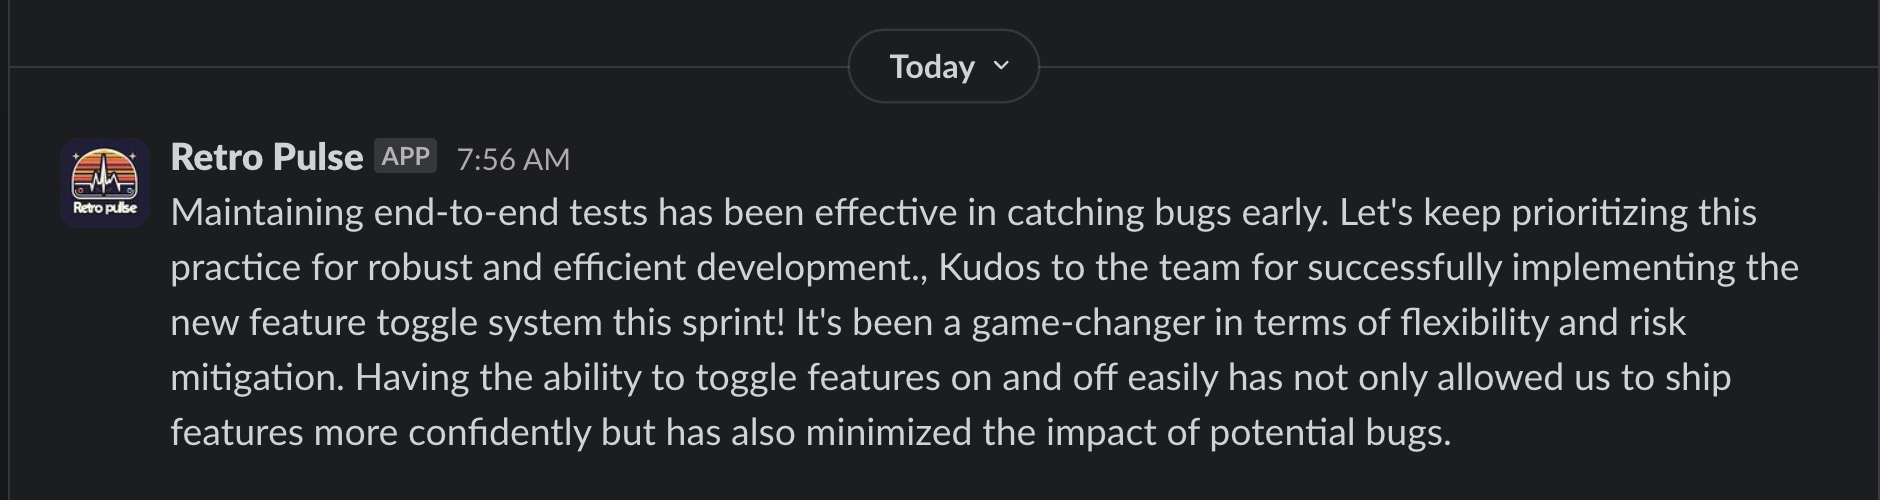
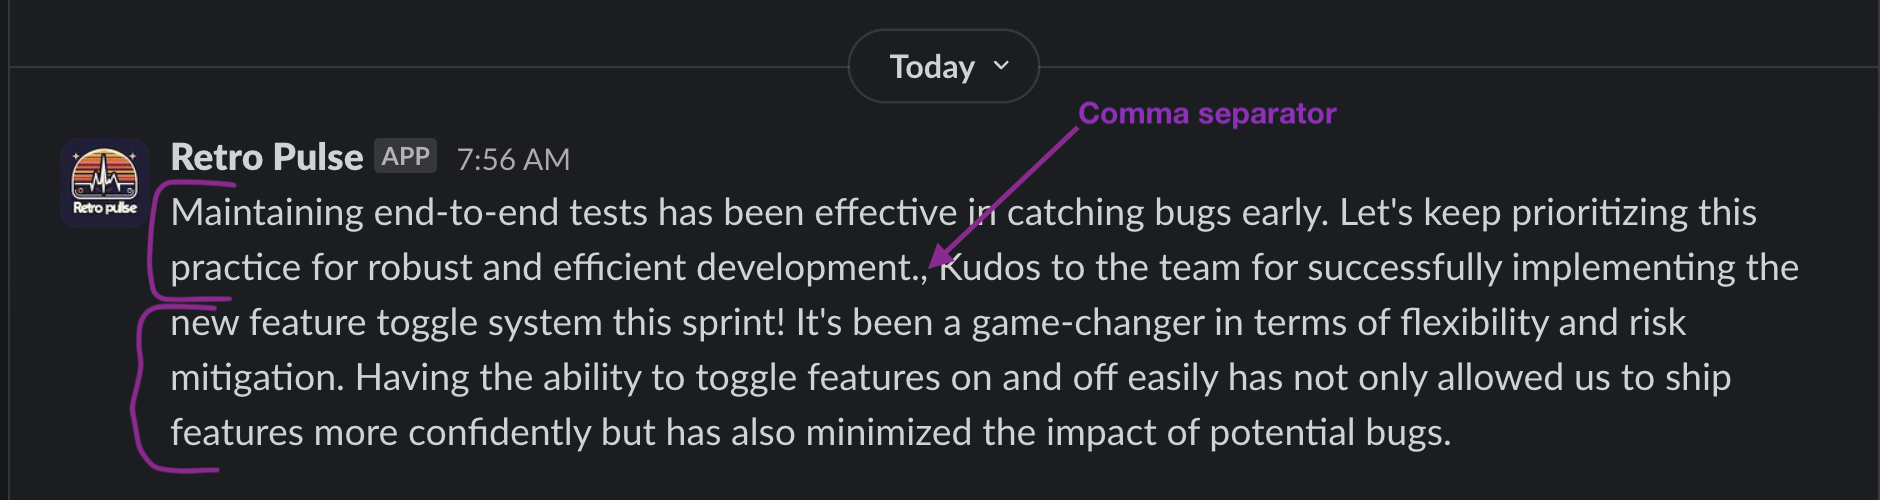
update publish date, related posts, edits on part 5

diff --git a/src/markdown/rails-slack-app-part5-slash-block-kit-response.md b/src/markdown/rails-slack-app-part5-slash-block-kit-response.md
@@ -1,13 +1,13 @@
 ---
 title: "Build a Rails App with Slack Part 5: Slash Command With Block Kit Response"
 featuredImage: "../images/slack-feat-img-part2-john-towner-p-rN-n6Miag-unsplash.jpg"
-description: "Learn how to build a Slack application with Rails in this comprehensive multi-part series. Part 4 covers handling a modal submission action, saving the feedback to the database, and replying to the user with a private DM confirming their submission."
-date: "2024-06-05"
+description: "Learn how to build a Slack application with Rails in this comprehensive multi-part series. Part 4 covers receiving a slash command and responding with a visually appealing block kit UI response."
+date: "2024-07-05"
 category: "rails"
 related:
-  - "Rails Enums with MySQL or Postgres"
-  - "Understanding ActiveRecord Dependent Options"
-  - "Add Rubocop to an Existing Rails Project"
+  - "Testing Faraday with RSpec"
+  - "A Tale of Rails, ChatGPT, and Scopes"
+  - "Rails Feature Test Solved by Regex"
 ---
 
 Welcome to the fifth installment of this multi-part series on building a Slack application with Rails. This series will guide you through the process of creating a Slack application with Rails and is structured as follows:
@@ -122,7 +122,7 @@ SlackRubyBotServer::Events.configure do |config|
 end
 ```
 
-The `Comment` model was introduced in Part 4 of this series, [have a quick read there](../rails-slack-app-part4-action-modal-submission#comment-model) if you need a refresher of what it looks like.
+The `Comment` model was introduced in Part 4 of this series, [have a quick read there](../rails-slack-app-part4-action-modal-submission#comment-model) if you need a refresher of what it looks like. The `Retrospective` model was introduced in [Part 2](../rails-slack-app-part2-slash-command-with-text-response#implement-slash-command).
 
 Use `require_relative` to load this new command in the `bot/slash_commands.rb` file. We [created this file in Part 2](../rails-slack-app-part2-slash-command-with-text-response#receive-slash-command-in-rails) when introducing slash commands:
 
@@ -141,11 +141,11 @@ require_relative "slash_commands/retro_discuss"
 
 This file is loaded by `config.ru` to ensure that all the Slack handlers are loaded when Rails starts.
 
-After restarting the Rails server `bin/dev`, and entering `/retro-discuss keep` in a Slack workspace that has the Retro Pulse app installed, it will respond with something like this. In the example below, there are two comments, each having several sentences:
+After restarting the Rails server `bin/dev`, and entering `/retro-discuss keep` in a Slack workspace that has the Retro Pulse app installed, it will respond with something like this. In the example below, there are two comments, each having several sentences, separated by a comma:
 
 ![slack app retro feedback comma separated](../images/slack-app-retro-feedback-comma-separated.png "slack app retro feedback comma separated")
 
-Technically this works, but the visuals are not very good. Returning the response in plain text makes it difficult to distinguish one comment from another. We'd also like to see who posted it and when. The next section covers how to make the response more visually appealing.
+Technically this works, but it's difficult to determine where one comment ends and the next begins. We'd also like to see who posted it and when. The next section covers how to make the response more visually appealing.
 
 ## Using Block Kit to Format the Response
 
@@ -450,7 +450,7 @@ class DiscussRetrospective
   include SlackCommentBuilder
 
   def call
-    retrospective = Retrospective.open_retrospective.first
+    retrospective = Retrospective.find_by(status: Retrospective.statuses[:open])
     return no_open_retrospective_message if retrospective.nil?
 
     category = extract_valid_category
@@ -736,8 +736,4 @@ For further exploration and reference, here are some useful links and resources:
 ## TODO
 
 - feature image
-- meta description
-- related - include faraday post
 - edit
-- In Receive Slash Command in Rails section, mention the Retrospective and Comment models were introduced in Parts 2 and 3 of this series respectively with links.
-- in image shown for "each having several sentences", add arrow calling out the comma separator between the comments

diff --git a/src/markdown/rails-slack-app-part3-slash-command-with-modal-response.md b/src/markdown/rails-slack-app-part3-slash-command-with-modal-response.md
@@ -2,10 +2,10 @@
 title: "Build a Rails App with Slack Part 3: Slash Command with Modal Response"
 featuredImage: "../images/slack-feat-img-part2-john-towner-p-rN-n6Miag-unsplash.jpg"
 description: "Learn how to build a Slack application with Rails in this comprehensive multi-part series. Part 3 covers configuring and handling a Slack Slash Command to perform a business action and responding with a modal form response in the channel."
-date: "2024-06-03"
+date: "2024-07-03"
 category: "rails"
 related:
-  - "Setup a Rails Project with Postgres and Docker"
+  - "Old Ruby and New Mac"
   - "ActiveRecord JSON Column with MySQL and MariaDB"
   - "Roll Your Own Search with Rails and Postgres: Search Engine"
 ---
@@ -610,6 +610,7 @@ At this point, we've built the capability for a Slack user to enter a custom sla
 
 ## TODO
 
+* Nice to have: `InitiateFeedbackForm` interactor should first validate that there is an open retro, otherwise send text error message via DM to user if we can get the user at this point?
 * In intro section, add one more screenshot showing the filled out form and user hovering over submit button. Eg: To try, Github plugin to send automated reminders about stale PRs still awaiting reviews.
 * Mention discussion of services, interactors, etc was discussed in part 2: (../rails-slack-app-part2-slash-command-with-text-response#refactor)
 * Image showing on one side the Example Modal, and on the other side, the code containing modal payload and arrows between each attribute and modal visual

diff --git a/src/markdown/rails-slack-app-part4-action-modal-submission.md b/src/markdown/rails-slack-app-part4-action-modal-submission.md
@@ -2,10 +2,10 @@
 title: "Build a Rails App with Slack Part 4: Receive Modal Submission"
 featuredImage: "../images/slack-feat-img-part2-john-towner-p-rN-n6Miag-unsplash.jpg"
 description: "Learn how to build a Slack application with Rails in this comprehensive multi-part series. Part 4 covers handling a modal submission action, saving the feedback to the database, and replying to the user with a private DM confirming their submission."
-date: "2024-06-04"
+date: "2024-07-04"
 category: "rails"
 related:
-  - "Rails Enums with MySQL or Postgres"
+  - "Capybara Webdriver Element not Clickable Resolved"
   - "Understanding ActiveRecord Dependent Options"
   - "Add Rubocop to an Existing Rails Project"
 ---
@@ -580,7 +580,7 @@ class SaveRetrospectiveFeedback
   end
 
   def save_comment
-    retrospective = Retrospective.open_retrospective.first
+    retrospective = Retrospective.find_by(status: Retrospective.statuses[:open])
 
     comment = Comment.new(
       content: @feedback_info[:comment],

diff --git a/src/markdown/rails-slack-app-part1-oauth.md b/src/markdown/rails-slack-app-part1-oauth.md
@@ -2,7 +2,7 @@
 title: "Build a Rails App with Slack Part 1: OAuth"
 featuredImage: "../images/slack-feat-img-part1-ruby.png"
 description: "Learn how to build a Slack application with Rails in this comprehensive multi-part series. Part 1 covers setting up a new Rails app, configuring OAuth for authentication, and laying the foundation for Retro Pulse, an app designed to enhance agile retrospectives on Slack. Follow along for step-by-step instructions and valuable insights into integrating Slack with Ruby on Rails."
-date: "2024-06-01"
+date: "2024-07-01"
 category: "rails"
 related:
   - "Add a Kafka Consumer to Rails"

diff --git a/src/markdown/rails-slack-app-part2-slash-command-with-text-response.md b/src/markdown/rails-slack-app-part2-slash-command-with-text-response.md
@@ -2,7 +2,7 @@
 title: "Build a Rails App with Slack Part 2: Slash Command with Text Response"
 featuredImage: "../images/slack-feat-img-part2-john-towner-p-rN-n6Miag-unsplash.jpg"
 description: "Learn how to build a Slack application with Rails in this comprehensive multi-part series. Part 2 covers configuring and handling a Slack Slash Command to perform a business action and responding with a markdown text response in the channel."
-date: "2024-06-02"
+date: "2024-07-02"
 category: "rails"
 related:
   - "They Don't All Have To Be ActiveRecord Models"
